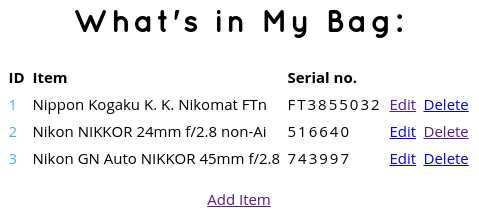
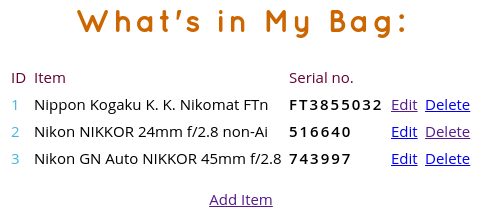
dn2820fykh-kubuntu

diff --git a/static/styles.css b/static/styles.css
@@ -7,6 +7,7 @@ p {
     }
 h1 {
     font-family: 'Quicksand', sans-serif; font-weight: 700; letter-spacing: 3px;
+    color: #cc6600;
 }
 table {
     font: 15px 'Open Sans', sans-serif;
@@ -14,11 +15,16 @@ table {
     margin: 0px auto;
     text-align: left;
     }
+th{
+    font-weight: 400;
+    color: #660033;
+}
 td.col1 {
     color: rgb(66, 184, 221);
 }
 td.col3 {
     letter-spacing: 2px;
+    font-weight: 600;
 }
 #btn {
     width: 11em;  height: 2em;
